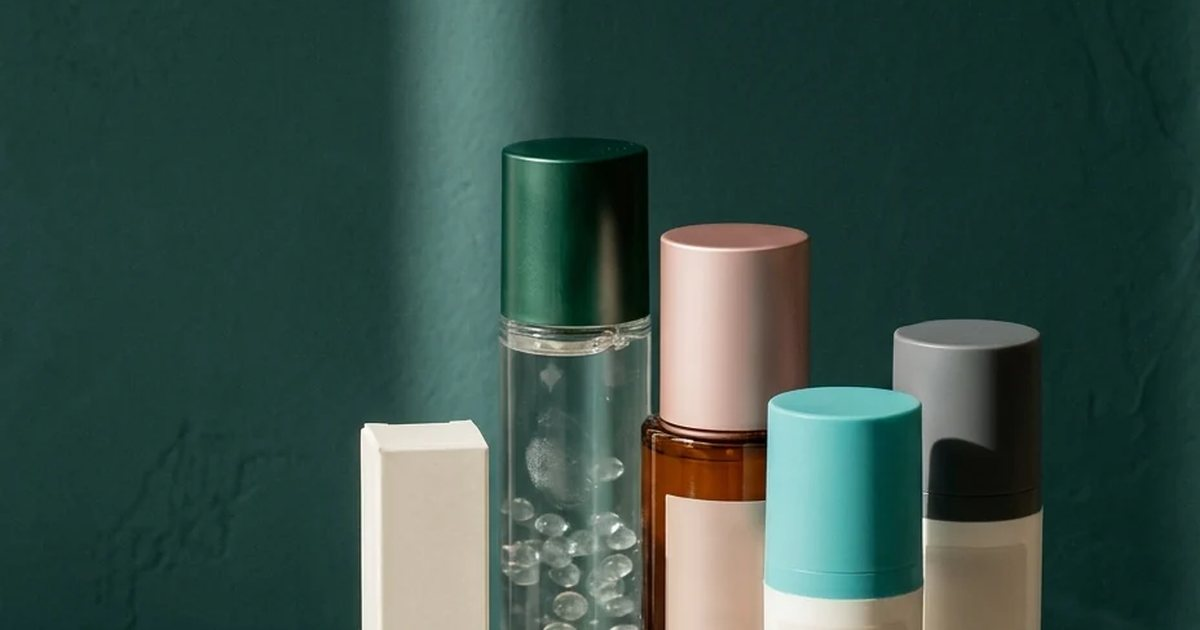
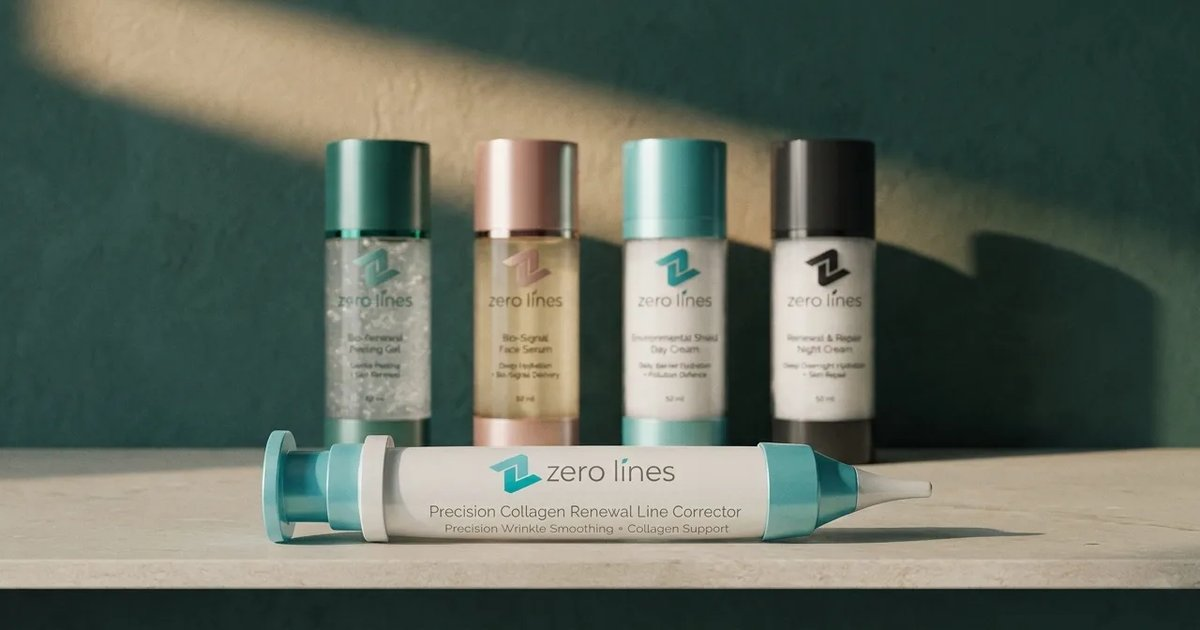
fix: the protocol page shows the real products again, and the hero has a face
Two mistakes, both mine.

The protocol still life was generated from a written description of the range
instead of from the actual product mockups, so the generator invented its own
packaging: a tapered amber bottle with a rose-gold cap, a plain white tube,
blank labels throughout. None of it is what Zero Lines sells. Roberto: "that
doesn't even look like my products." It is the same error as the applicator
lookalike weeks ago — describing the product in words rather than handing over
the reference. That page now carries the real group shot, which has the real
bottles and the correctly printed Line Corrector, and the slot's aspect is set
to the shot's own rather than cropping a 2.36:1 panorama into a 4:5 strip.

And the homepage portrait was austere rather than beautiful. The brief called
for unretouched skin at fifty and got exactly that, which is not the same thing
as the pretty face the site's most important frame needs. Rebuilt from a
photograph already in the library, placed flush right on a 2560x1440 canvas
with her own background extended left under the headline — no crop of her face,
no generation, and 2560px of real width where the old file had 1376.

diff --git a/protocol/index.html b/protocol/index.html
@@ -23,7 +23,7 @@
 
 <link rel="icon" href="/assets/logo-mark.png">
 <link rel="apple-touch-icon" href="/assets/apple-touch-icon.png">
-<link rel="preload" as="image" href="/assets/img/products/protocol-range.webp" fetchpriority="high">
+<link rel="preload" as="image" href="/assets/img/products/group-range-protocol-order.webp" fetchpriority="high">
 <link rel="preload" as="font" type="font/woff2" href="/assets/fonts/inter-latin.woff2" crossorigin>
 <link rel="preload" as="font" type="font/woff2" href="/assets/fonts/cormorant-garamond-latin.woff2" crossorigin>
 <link rel="stylesheet" href="/assets/zl.css">
@@ -332,10 +332,10 @@
         <div class="zl-phero__frame">
           <!-- 4:5 native, so the slot no longer has to crop a 16:9 frame down to
                a third of its width. -->
-          <div class="zl-media" data-reveal="wipe" style="--reveal-delay:240ms;aspect-ratio:4/5">
-            <img src="/assets/img/products/protocol-range.webp"
-                 alt="The six Zero Lines formulations grouped on a limestone slab against a petrol-green wall, low sun throwing long shadows across the stone"
-                 fetchpriority="high" data-parallax="0.05" width="928" height="1152">
+          <div class="zl-media" data-reveal="wipe" style="--reveal-delay:240ms;aspect-ratio:1584/672">
+            <img src="/assets/img/products/group-range-protocol-order.webp"
+                 alt="The six Zero Lines formulations together on a limestone shelf against a deep green wall, the Precision Collagen Renewal Line Corrector lying in front of the five bottles"
+                 fetchpriority="high" data-parallax="0.05" width="1584" height="672">
           </div>
         </div>
       </figure>
@@ -493,7 +493,7 @@
       </p>
     </div>
 
-    <div class="zl-media zl-scrub" style="margin-bottom:clamp(3rem,7vh,4.5rem);aspect-ratio:4/5;max-width:420px">
+    <div class="zl-media zl-scrub" style="margin-bottom:clamp(3rem,7vh,4.5rem);aspect-ratio:1584/672;max-width:420px">
       <img src="/assets/img/pages/protocol-building-serum-lowkey.webp"
            alt="The Bio-Signal Face Serum standing on dark slate in a single shaft of light"
            loading="lazy" data-parallax="0.07" width="928" height="1152">

diff --git a/index.html b/index.html
@@ -196,8 +196,8 @@
 <section class="zl-hero">
   <div class="zl-hero__photo">
     <img src="/assets/img/people/home-hero-woman.webp"
-         alt="A woman in her fifties in an open-collared linen shirt, turned back from a window in soft daylight, against a bare plaster wall"
-         fetchpriority="high" data-parallax="0.05" width="2752" height="1536">
+         alt="A woman with luminous skin and dark hair drawn back, looking just past the camera in soft even light against a pale wall"
+         fetchpriority="high" data-parallax="0.05" width="2560" height="1440">
   </div>
 
   <div class="zl-hero__inner">
